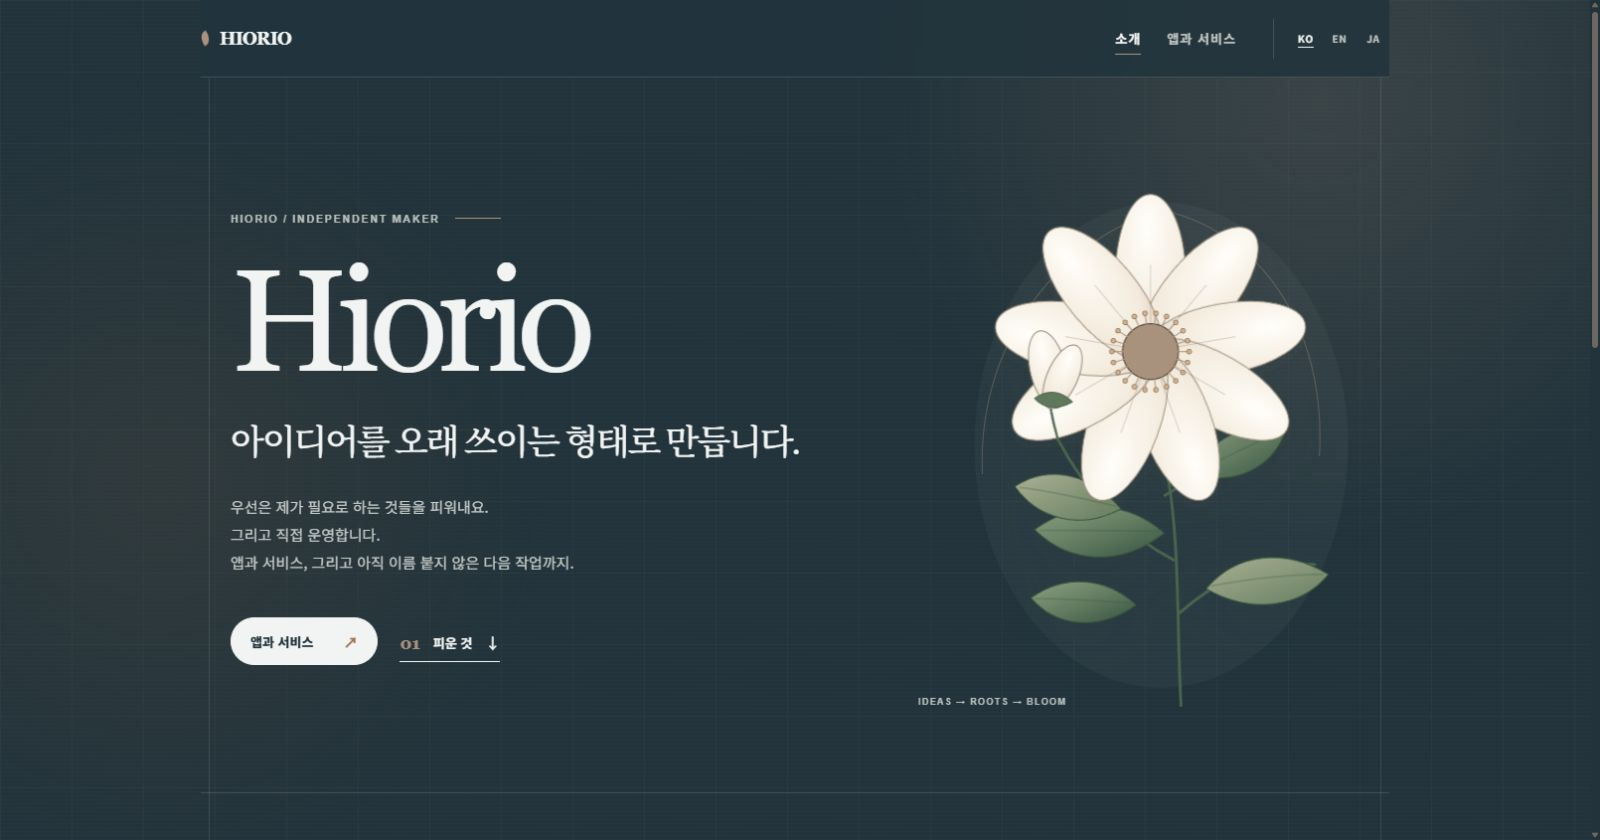
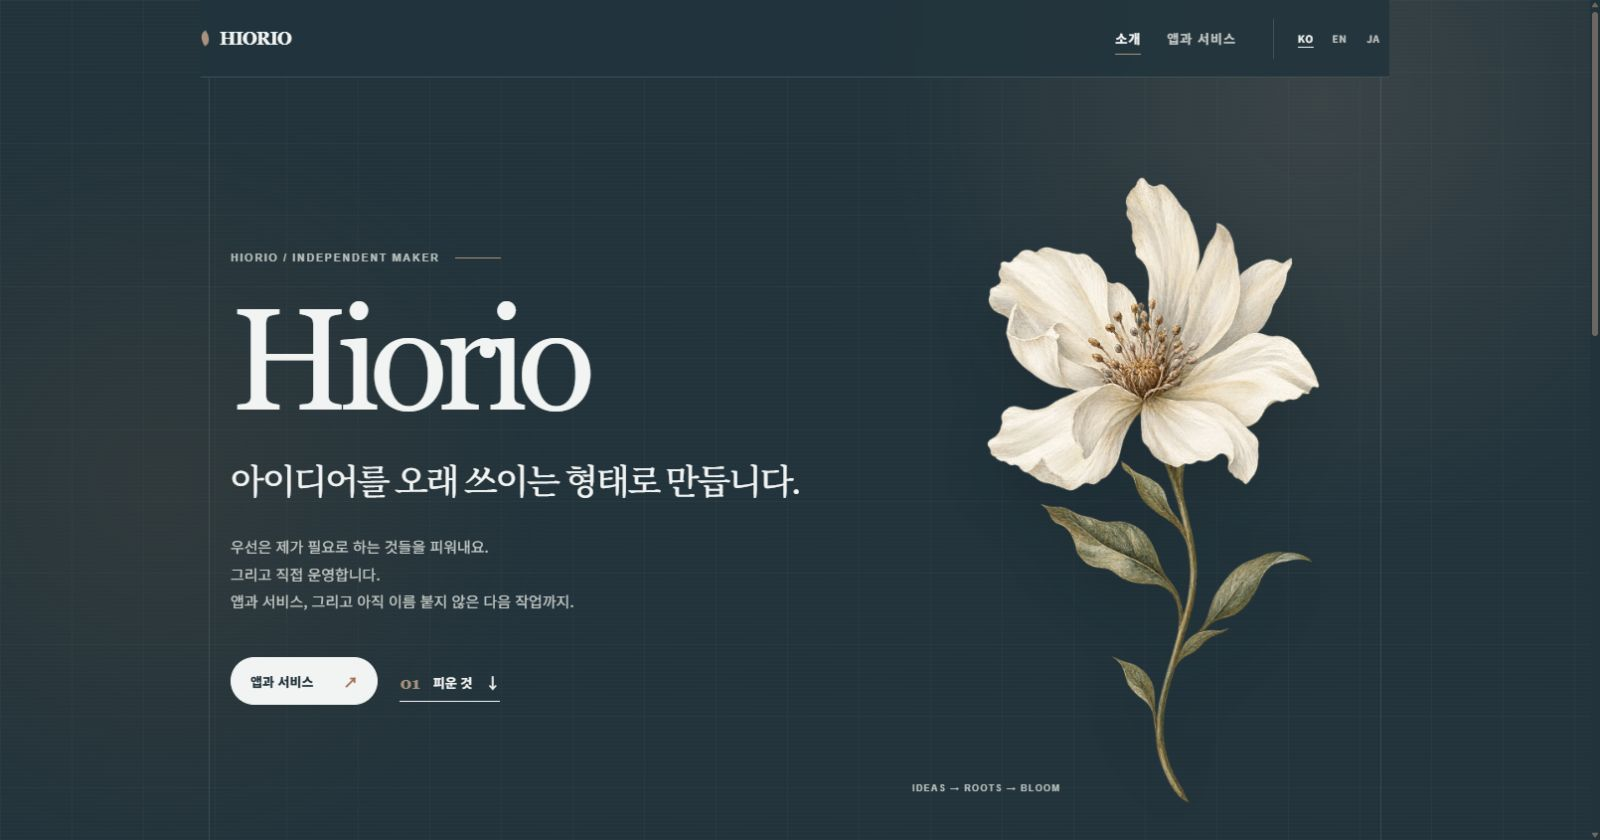
Replace hero flower with botanical artwork

Changed region(s): [[0.125, 0.2476, 0.5, 0.8667], [0.5938, 0.2167, 0.8438, 0.9595], [0.5625, 0.9286, 0.6562, 0.9595]]

diff --git a/src/App.tsx b/src/App.tsx
@@ -103,82 +103,15 @@ function RootPage({ copy, locale, setLocale }: { copy: Copy; locale: Locale; set
         </div>
 
         <div className="garden-hero-flower" aria-hidden="true">
-          <svg viewBox="0 0 520 600" role="presentation">
-            <defs>
-              <radialGradient id="heroPetal" cx="45%" cy="22%" r="88%">
-                <stop offset="0" stopColor="#fffef9" />
-                <stop offset="0.7" stopColor="#f3eadc" />
-                <stop offset="1" stopColor="#d8c5b2" />
-              </radialGradient>
-              <linearGradient id="heroLeaf" x1="0" x2="1" y1="0" y2="1">
-                <stop offset="0" stopColor="#8ea080" />
-                <stop offset="0.55" stopColor="#5f795f" />
-                <stop offset="1" stopColor="#365440" />
-              </linearGradient>
-              <linearGradient id="heroLeafSoft" x1="0" x2="1" y1="0" y2="1">
-                <stop offset="0" stopColor="#a9b092" />
-                <stop offset="1" stopColor="#667e61" />
-              </linearGradient>
-              <filter id="heroPetalShadow" x="-30%" y="-30%" width="160%" height="170%">
-                <feDropShadow dx="0" dy="7" stdDeviation="6" floodColor="#5e5145" floodOpacity="0.09" />
-              </filter>
-            </defs>
-
-            <ellipse className="hero-flower-wash" cx="286" cy="294" rx="208" ry="270" />
-            <path className="hero-flower-orbit" d="M87 326C81 188 163 70 286 32C400 58 470 166 462 307" />
-
-            <g className="hero-stems">
-              <path d="M308 584C303 493 307 407 293 326C285 278 278 234 274 190" />
-              <path d="M300 422C248 395 205 352 170 286" />
-              <path d="M305 482C349 443 394 422 457 427" />
-              <path d="M290 350C333 326 367 292 390 255" />
-            </g>
-
-            <g className="hero-leaves">
-              <path fill="url(#heroLeaf)" d="M289 392C248 355 193 354 145 388C183 426 241 430 289 392Z" />
-              <path fill="url(#heroLeafSoft)" d="M336 454C370 413 425 409 472 438C441 476 385 482 336 454Z" />
-              <path fill="url(#heroLeaf)" d="M321 326C341 286 382 266 425 276C412 317 370 341 321 326Z" />
-              <path fill="url(#heroLeafSoft)" d="M241 365C208 326 161 315 123 340C149 377 197 389 241 365Z" />
-              <path fill="url(#heroLeaf)" d="M258 472C223 440 178 438 141 464C168 496 215 502 258 472Z" />
-            </g>
-
-            <g className="hero-leaf-veins">
-              <path d="M283 390C235 389 190 389 150 389" />
-              <path d="M341 451C389 442 430 438 467 438" />
-              <path d="M326 323C361 306 394 290 421 278" />
-              <path d="M235 362C194 352 158 345 128 341" />
-              <path d="M253 470C214 467 177 465 145 465" />
-            </g>
-
-            <g className="hero-flower-petals" filter="url(#heroPetalShadow)">
-              {Array.from({ length: 9 }, (_, index) => <ellipse key={index} cx="274" cy="106" rx="39" ry="91" transform={`rotate(${index * 40} 274 190)`} />)}
-            </g>
-            <g className="hero-petal-veins">
-              {Array.from({ length: 9 }, (_, index) => {
-                const angle = ((index * 40) - 90) * Math.PI / 180;
-                return <path key={index} d={`M${274 + Math.cos(angle) * 30} ${190 + Math.sin(angle) * 30}L${274 + Math.cos(angle) * 96} ${190 + Math.sin(angle) * 96}`} />;
-              })}
-            </g>
-
-            <circle className="hero-flower-center" cx="274" cy="190" r="31" />
-            <g className="hero-flower-stamens">
-              {Array.from({ length: 22 }, (_, index) => {
-                const angle = (index / 22) * Math.PI * 2;
-                const innerX = 274 + Math.cos(angle) * 26;
-                const innerY = 190 + Math.sin(angle) * 26;
-                const outerX = 274 + Math.cos(angle) * 43;
-                const outerY = 190 + Math.sin(angle) * 43;
-                return <g key={index}><path d={`M${innerX} ${innerY}L${outerX} ${outerY}`} /><circle cx={outerX} cy={outerY} r="2.6" /></g>;
-              })}
-            </g>
-
-            <g className="hero-flower-bud">
-              <path className="bud-stem" d="M171 288C165 267 160 246 160 224" />
-              <ellipse cx="160" cy="210" rx="20" ry="44" transform="rotate(-13 160 210)" />
-              <ellipse cx="176" cy="218" rx="17" ry="38" transform="rotate(24 176 218)" />
-              <path className="bud-sepal" d="M145 242C159 232 174 233 187 246C171 255 156 254 145 242Z" />
-            </g>
-          </svg>
+          <img
+            className="garden-flower-art"
+            src={`${basePath}hero-botanical.webp`}
+            alt=""
+            width="1024"
+            height="1536"
+            decoding="async"
+            fetchPriority="high"
+          />
           <span className="flower-caption">IDEAS → ROOTS → BLOOM</span>
         </div>
       </section>

diff --git a/src/enhancements.css b/src/enhancements.css
@@ -123,9 +123,9 @@ html {
   --pointer-y: 50%;
 }
 
-.garden-hero-flower.depth-item svg,
+.garden-hero-flower.depth-item .garden-flower-art,
 .development-garden.depth-item .garden-plot {
-  transform: perspective(1200px) rotateX(var(--tilt-y)) rotateY(var(--tilt-x));
+  transform: translate3d(var(--parallax-x), var(--parallax-y), 0) perspective(1200px) rotateX(var(--tilt-y)) rotateY(var(--tilt-x));
   transform-style: preserve-3d;
   transition: transform 260ms cubic-bezier(.2, .8, .2, 1);
 }
@@ -284,28 +284,6 @@ body:has(.garden-root) {
   margin-top: 0;
 }
 
-.garden-root .hero-flower-wash {
-  fill: rgba(242, 244, 243, .035);
-}
-
-.garden-root .hero-flower-orbit {
-  stroke: rgba(169, 146, 125, .42);
-}
-
-.garden-root .hero-flower-center {
-  fill: #a9927d;
-  stroke: #5e503f;
-}
-
-.garden-root .hero-flower-stamens path {
-  stroke: #a9927d;
-}
-
-.garden-root .hero-flower-stamens circle {
-  fill: #d4b08d;
-  stroke: #5e503f;
-}
-
 .garden-root .garden-trunk {
   background: linear-gradient(#a9927d, #6d7567 72%, transparent);
 }
@@ -349,23 +327,20 @@ body:has(.garden-root) {
   opacity: .68;
 }
 
-.motion-ready .hero-stems path {
-  stroke-dasharray: 900;
-  stroke-dashoffset: 900;
-  animation: hiorio-stem-draw 1500ms cubic-bezier(.2, .8, .2, 1) 160ms forwards;
+.garden-flower-art {
+  display: block;
+  width: 100%;
+  height: auto;
+  max-height: min(76vh, 720px);
+  object-fit: contain;
+  filter: saturate(.86) contrast(1.04) drop-shadow(0 24px 36px rgba(6, 13, 16, .22));
+  transform-origin: 54% 96%;
+  will-change: transform;
 }
 
-.motion-ready .hero-flower-petals {
-  transform-box: fill-box;
-  transform-origin: center;
-  animation: hiorio-bloom-in 1200ms cubic-bezier(.16, 1, .3, 1) 180ms both,
-    hiorio-bloom-breathe 8s ease-in-out 1500ms infinite;
-}
-
-.motion-ready .hero-leaves {
-  transform-box: fill-box;
-  transform-origin: 52% 88%;
-  animation: hiorio-leaf-sway 9s ease-in-out 1600ms infinite;
+.motion-ready .garden-flower-art {
+  animation: hiorio-botanical-enter 950ms cubic-bezier(.16, 1, .3, 1) 160ms both,
+    hiorio-botanical-sway 9.5s ease-in-out 1500ms infinite;
 }
 
 /* APPS / clickable product register */
@@ -587,8 +562,8 @@ body:has(.development-shell) {
     width: min(82%, 310px);
   }
 
-  .garden-hero-flower svg {
-    max-height: 360px;
+  .garden-flower-art {
+    max-height: 470px;
   }
 }
 
@@ -690,9 +665,7 @@ body:has(.development-shell) {
 
   ::view-transition-old(root),
   ::view-transition-new(root),
-  .motion-ready .hero-stems path,
-  .motion-ready .hero-flower-petals,
-  .motion-ready .hero-leaves,
+  .motion-ready .garden-flower-art,
   .motion-ready .timeflower-calendar .event,
   .motion-ready .dailyplank-timer,
   .motion-ready .dailyplank-cue-timeline .cue-dot {
@@ -721,23 +694,14 @@ body:has(.development-shell) {
   from { opacity: 0; transform: translateY(8px); }
 }
 
-@keyframes hiorio-stem-draw {
-  to { stroke-dashoffset: 0; }
+@keyframes hiorio-botanical-enter {
+  from { opacity: 0; translate: 0 16px; scale: .985; }
+  to { opacity: 1; translate: 0 0; scale: 1; }
 }
 
-@keyframes hiorio-bloom-in {
-  from { opacity: 0; transform: scale(.84) rotate(-2deg); }
-  to { opacity: 1; transform: scale(1) rotate(0); }
-}
-
-@keyframes hiorio-bloom-breathe {
-  0%, 100% { transform: scale(1) rotate(0); }
-  50% { transform: scale(1.012) rotate(.35deg); }
-}
-
-@keyframes hiorio-leaf-sway {
-  0%, 100% { transform: rotate(0); }
-  50% { transform: rotate(.8deg); }
+@keyframes hiorio-botanical-sway {
+  0%, 100% { rotate: -.28deg; }
+  50% { rotate: .28deg; }
 }
 
 @keyframes hiorio-note-in {

diff --git a/app/globals.css b/app/globals.css
@@ -3827,88 +3827,17 @@ html[lang="ko"] .garden-promise {
 
 .garden-hero-flower {
   position: relative;
-  width: min(92%, 470px);
+  width: min(96%, 500px);
   align-self: center;
   justify-self: center;
-  transform: translate(10px, 12px);
+  transform: translate(18px, 12px);
 }
 
-.garden-hero-flower svg {
+.garden-flower-art {
   display: block;
   width: 100%;
-  overflow: visible;
-  filter: drop-shadow(0 24px 24px rgba(48, 67, 46, 0.055));
-}
-
-.hero-flower-wash { fill: rgba(232, 229, 214, 0.56); }
-.hero-flower-orbit { fill: none; stroke: rgba(74, 103, 75, 0.2); stroke-width: 1; }
-
-.hero-stems {
-  fill: none;
-  stroke: #49644d;
-  stroke-linecap: round;
-  stroke-linejoin: round;
-  stroke-width: 3.2;
-}
-
-.hero-leaves path {
-  stroke: #385641;
-  stroke-linejoin: round;
-  stroke-width: 1.15;
-}
-
-.hero-leaf-veins,
-.hero-petal-veins {
-  fill: none;
-  stroke-linecap: round;
-}
-
-.hero-leaf-veins {
-  stroke: rgba(49, 78, 56, 0.54);
-  stroke-width: 0.9;
-}
-
-.hero-flower-petals ellipse {
-  fill: url(#heroPetal);
-  stroke: #968979;
-  stroke-width: 1.05;
-}
-
-.hero-petal-veins {
-  stroke: rgba(130, 118, 99, 0.46);
-  stroke-width: 0.75;
-}
-
-.hero-flower-center {
-  fill: #bd6542;
-  stroke: #91482f;
-  stroke-width: 1.4;
-}
-
-.hero-flower-stamens path {
-  fill: none;
-  stroke: #a95536;
-  stroke-linecap: round;
-  stroke-width: 1.1;
-}
-
-.hero-flower-stamens circle {
-  fill: #d68a52;
-  stroke: #9f4f34;
-  stroke-width: 0.55;
-}
-
-.hero-flower-bud ellipse {
-  fill: url(#heroPetal);
-  stroke: #827a69;
-  stroke-width: 1;
-}
-
-.hero-flower-bud .bud-stem { fill: none; stroke: #49644d; stroke-linecap: round; stroke-width: 2.5; }
-.hero-flower-bud .bud-sepal {
-  fill: #60795d;
-  stroke: #405b46;
-  stroke-width: 1;
+  height: auto;
+  filter: drop-shadow(0 24px 36px rgba(48, 67, 46, 0.08));
 }
 
 .flower-caption {

diff --git a/src/useSiteMotion.ts b/src/useSiteMotion.ts
@@ -86,15 +86,18 @@ export function useSiteMotion(route: string) {
     if (!reduceMotion && hasPrecisePointer) {
       shell.querySelectorAll<HTMLElement>(depthSelector).forEach((item) => {
         item.classList.add("depth-item");
+        const isBotanical = item.classList.contains("garden-hero-flower");
+        const tiltStrength = isBotanical ? 0.8 : 4;
+        const parallaxStrength = isBotanical ? 5 : 10;
 
         const move = (event: PointerEvent) => {
           const bounds = item.getBoundingClientRect();
           const x = (event.clientX - bounds.left) / bounds.width;
           const y = (event.clientY - bounds.top) / bounds.height;
-          item.style.setProperty("--tilt-x", `${(x - 0.5) * 4}deg`);
-          item.style.setProperty("--tilt-y", `${(0.5 - y) * 4}deg`);
-          item.style.setProperty("--parallax-x", `${(x - 0.5) * 10}px`);
-          item.style.setProperty("--parallax-y", `${(y - 0.5) * 10}px`);
+          item.style.setProperty("--tilt-x", `${(x - 0.5) * tiltStrength}deg`);
+          item.style.setProperty("--tilt-y", `${(0.5 - y) * tiltStrength}deg`);
+          item.style.setProperty("--parallax-x", `${(x - 0.5) * parallaxStrength}px`);
+          item.style.setProperty("--parallax-y", `${(y - 0.5) * parallaxStrength}px`);
           item.style.setProperty("--pointer-x", `${x * 100}%`);
           item.style.setProperty("--pointer-y", `${y * 100}%`);
         };
